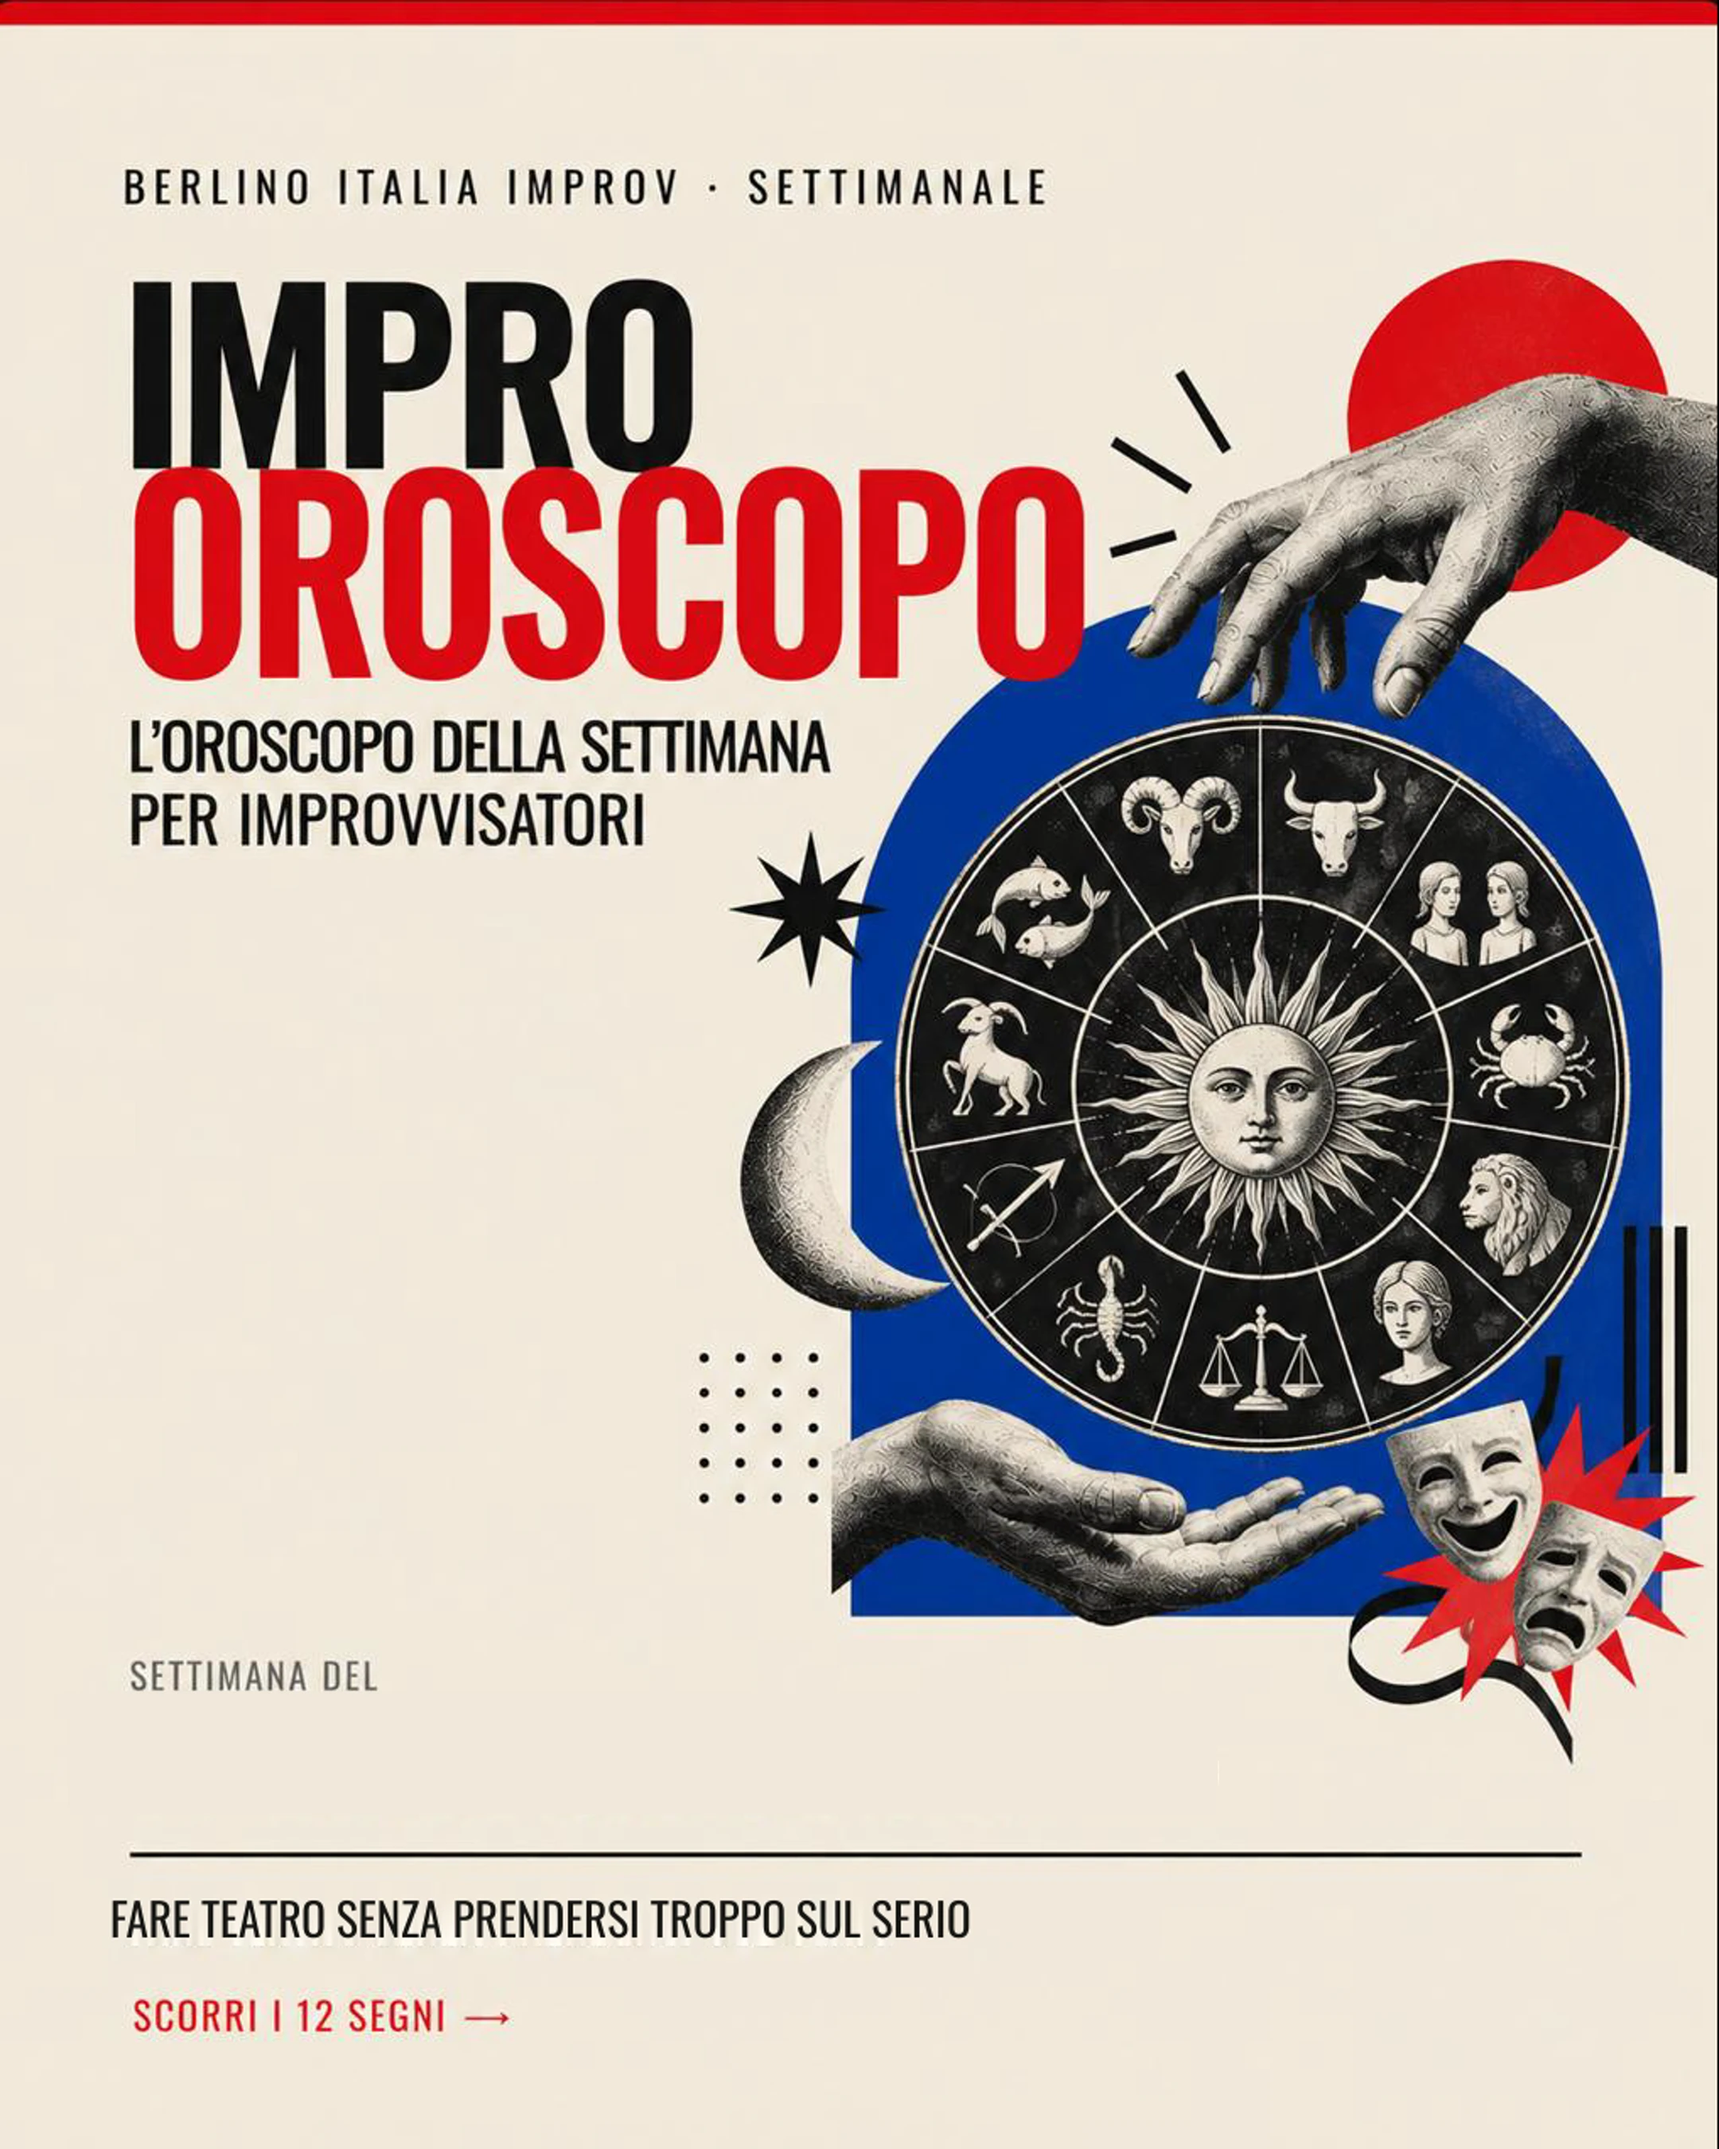
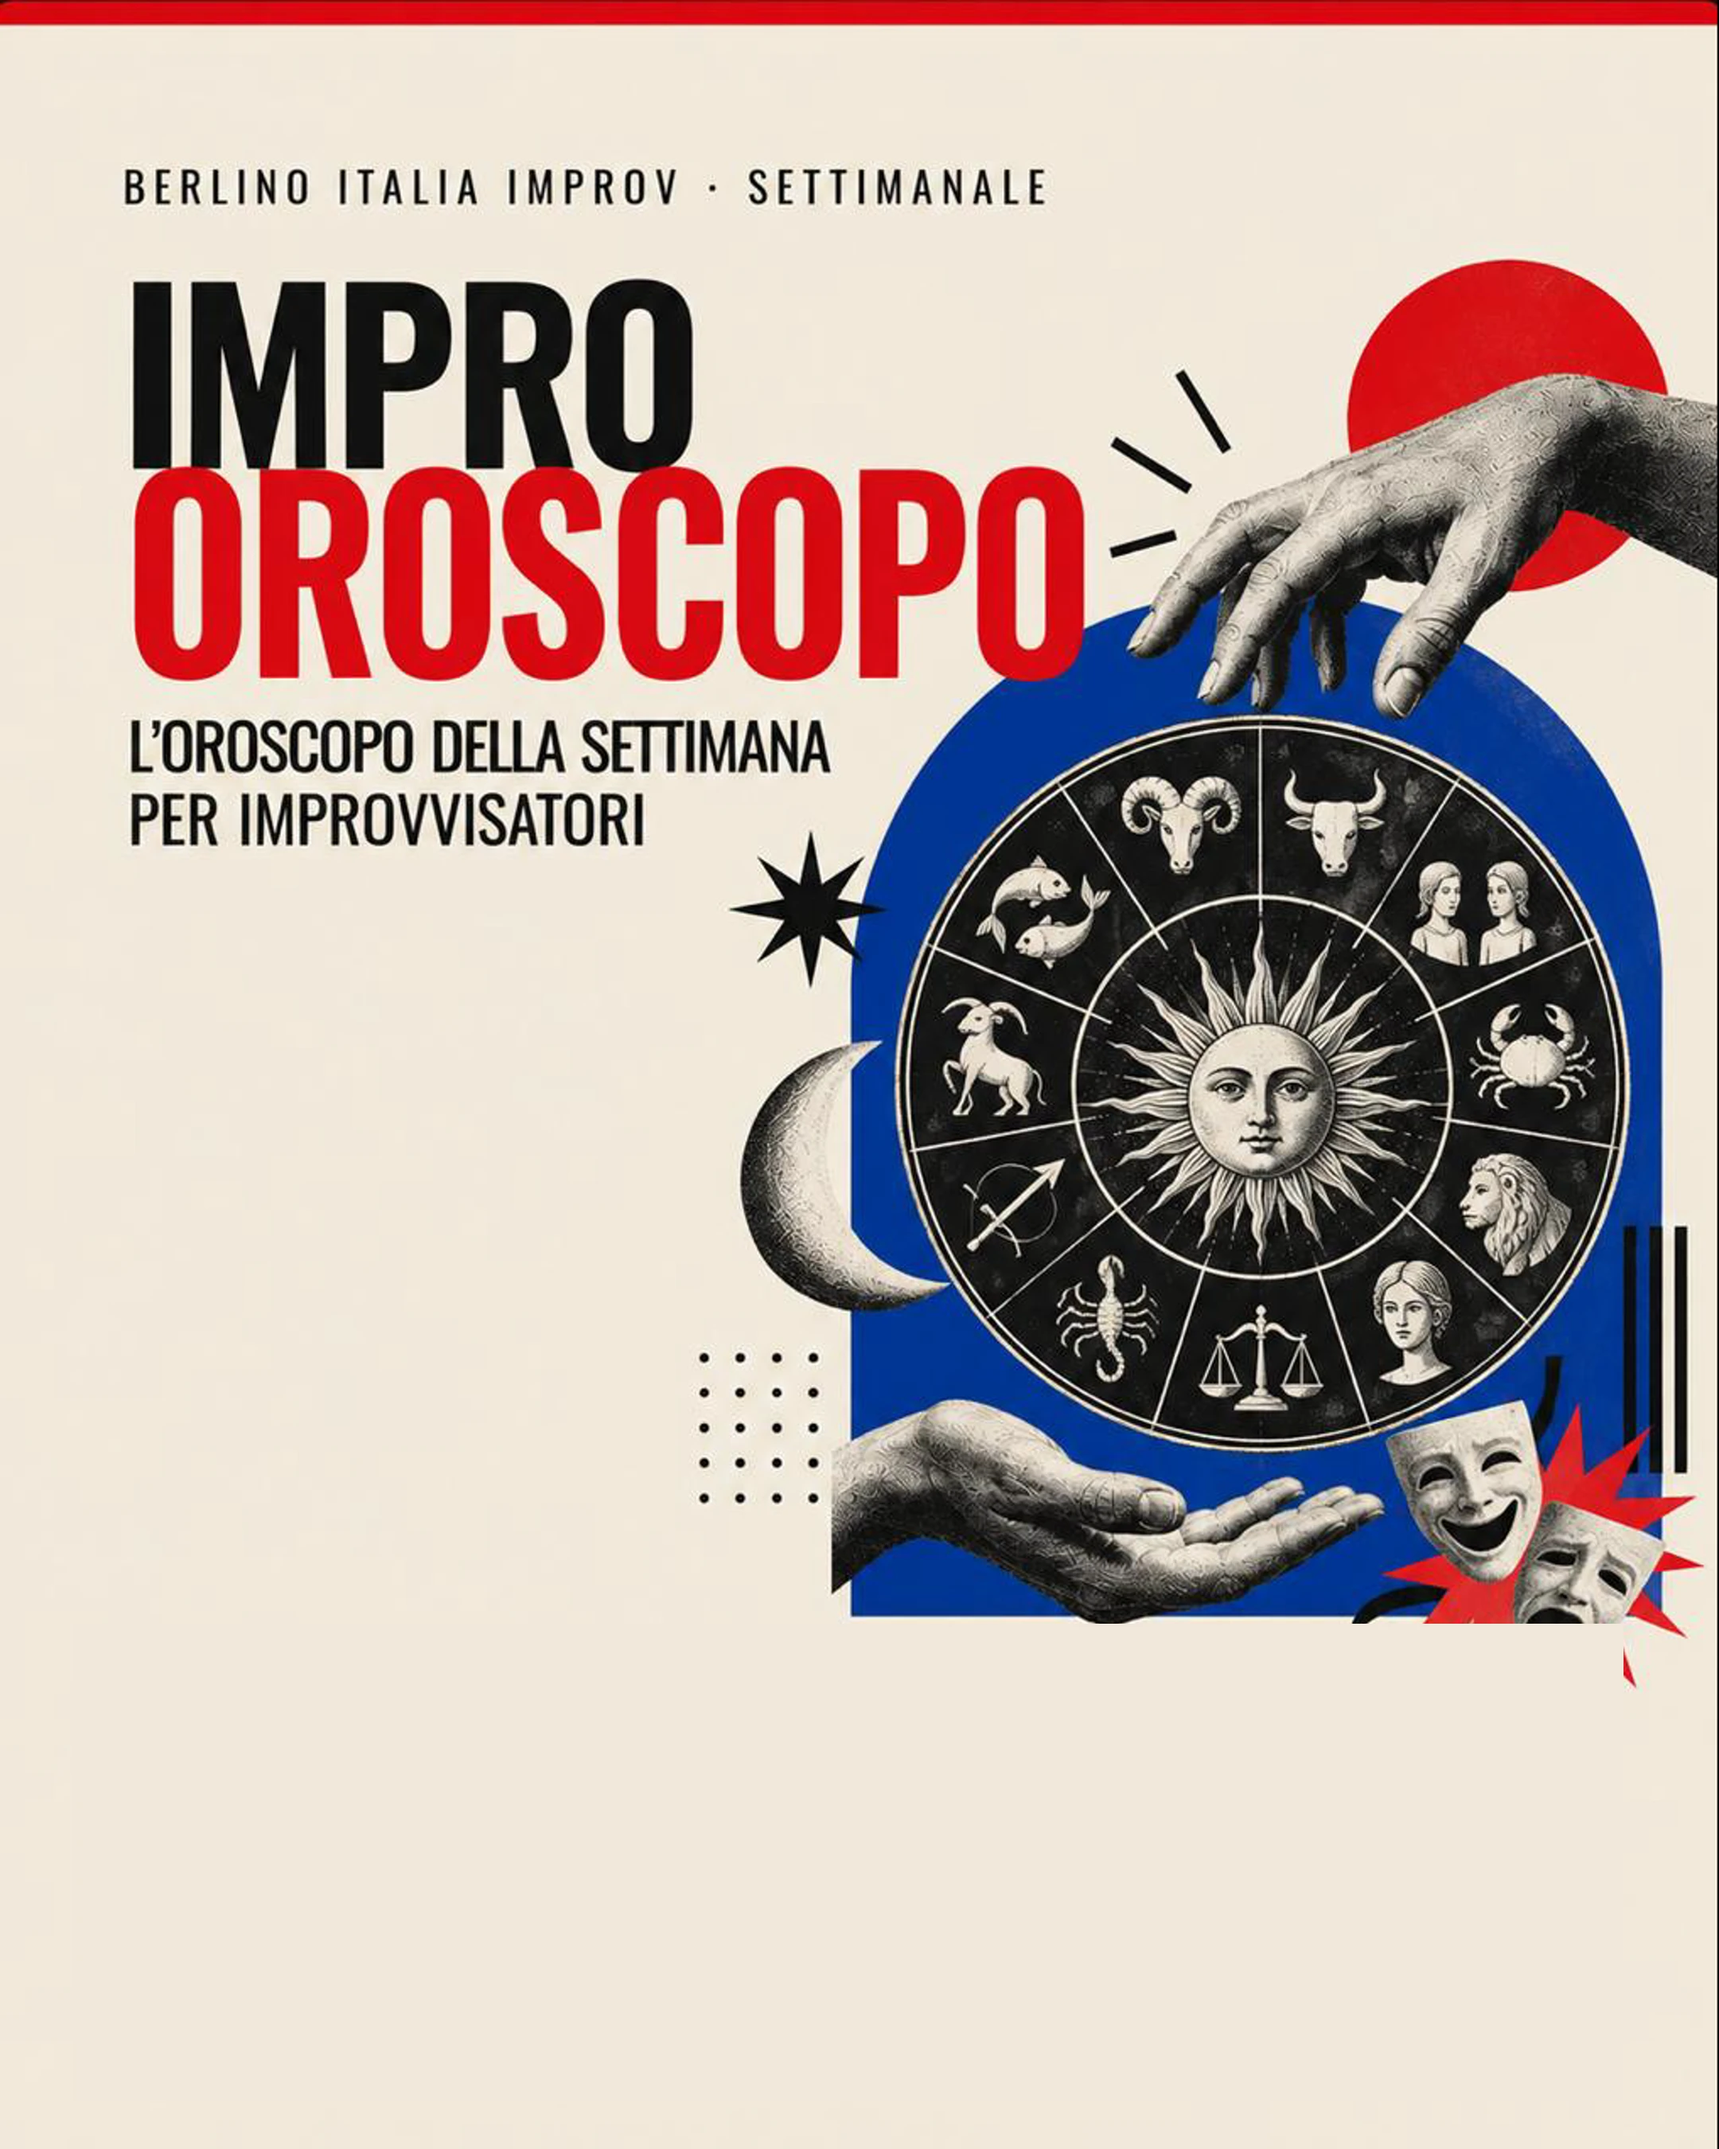
fix: copertina carosello — blocco data/payoff allineato, pulito
La data generata via overlay CSS partiva ~50px più a sinistra delle
altre righe ("Settimana del", payoff, "Scorri i 12 segni") già
presenti nell'immagine base — misurato con precisione su una griglia
pixel. Risolto spostando TUTTO il blocco (non solo la data) da pixel
fissi dell'immagine a testo live: cover-base.webp ora ha quella
fascia completamente vuota (erasa con drawbox, nessun residuo visivo
verificato via diff), e un nuovo <div class="cover-footer"> con 4
righe sorelle garantisce lo stesso margine sinistro per costruzione,
non per coincidenza.

Verificato su entrambi i formati di data (stesso mese e a cavallo di
due mesi) a schermo intero, nessun overflow.

Claude-Session: https://claude.ai/code/session_01JrLky1G8NmA7DhB1Vno5mF

diff --git a/app/improroscopo/[week]/carosello/page.tsx b/app/improroscopo/[week]/carosello/page.tsx
@@ -69,7 +69,13 @@ function CoverSlide({ range }: { range: string }) {
     <div className="slide" data-slide="01-cover">
       {/* eslint-disable-next-line @next/next/no-img-element */}
       <img className="cover-base" src="/carosello/cover-base.webp" alt="" />
-      <p className="cover-week-overlay">{range}</p>
+      <div className="cover-footer">
+        <p className="cover-footer-kick">Settimana del</p>
+        <p className="cover-footer-date">{range}</p>
+        <div className="cover-footer-rule" />
+        <p className="cover-footer-payoff">Fare teatro senza prendersi troppo sul serio</p>
+        <p className="cover-footer-hint">Scorri i 12 segni →</p>
+      </div>
     </div>
   );
 }
@@ -189,11 +195,28 @@ const CSS = `
   .cover-base {
     position: absolute; inset: 0; width: 1080px; height: 1350px; z-index: 0;
   }
-  .cover-week-overlay {
-    position: absolute; left: 44px; top: 1078px; z-index: 1; white-space: nowrap;
+  .cover-footer {
+    position: absolute; left: 80px; top: 1038px; right: 80px; z-index: 1;
+    text-align: left;
+  }
+  .cover-footer-kick {
+    font-family: var(--font-oswald), sans-serif; text-transform: uppercase;
+    letter-spacing: 0.16em; font-size: 20px; margin: 0; color: rgba(24,23,23,0.6);
+  }
+  .cover-footer-date {
     font-family: var(--font-oswald), sans-serif; font-weight: 600;
     text-transform: uppercase; font-size: 64px; line-height: 1; letter-spacing: 0.005em;
+    margin: 6px 0 0; color: #181717; white-space: nowrap;
+  }
+  .cover-footer-rule { height: 3px; background: #181717; margin: 26px 0 22px; }
+  .cover-footer-payoff {
+    font-family: var(--font-oswald), sans-serif; text-transform: uppercase;
+    letter-spacing: 0.02em; font-size: 30px; line-height: 1.2; margin: 0;
     color: #181717;
+  }
+  .cover-footer-hint {
+    font-family: var(--font-oswald), sans-serif; text-transform: uppercase;
+    letter-spacing: 0.12em; font-size: 22px; margin: 18px 0 0; color: #d4161e;
   }
 
   /* sign - image band */
